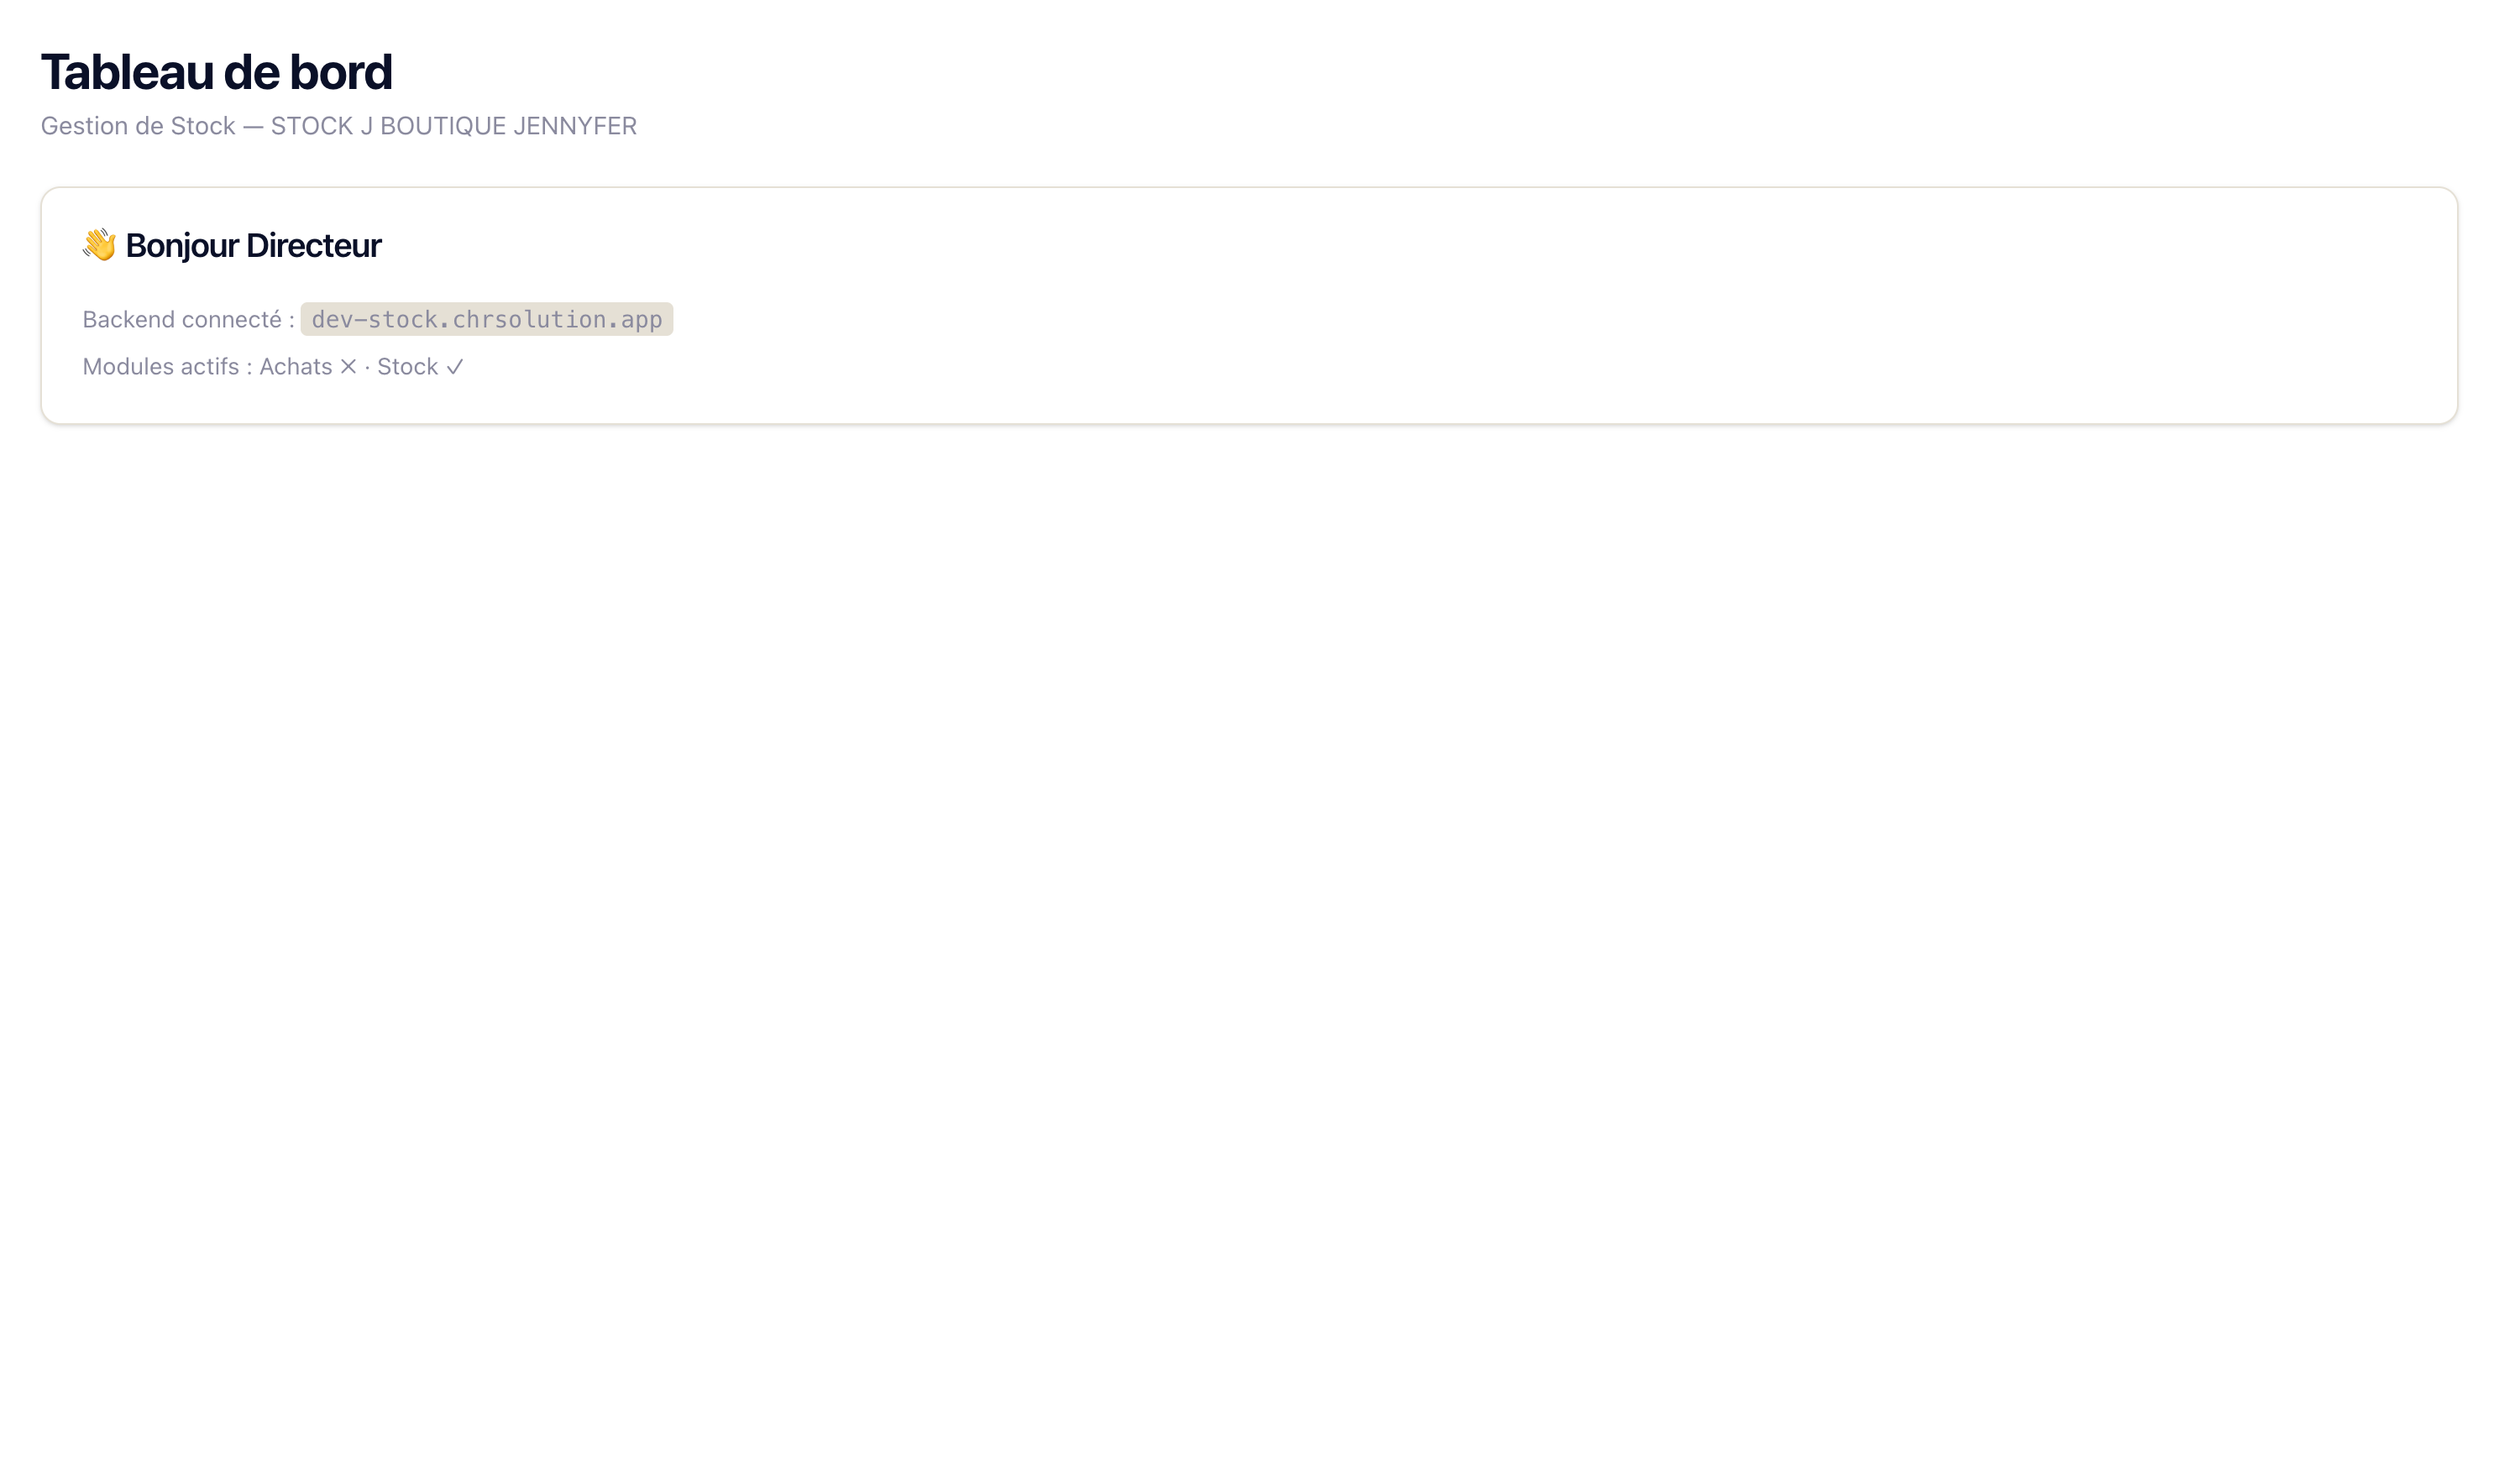
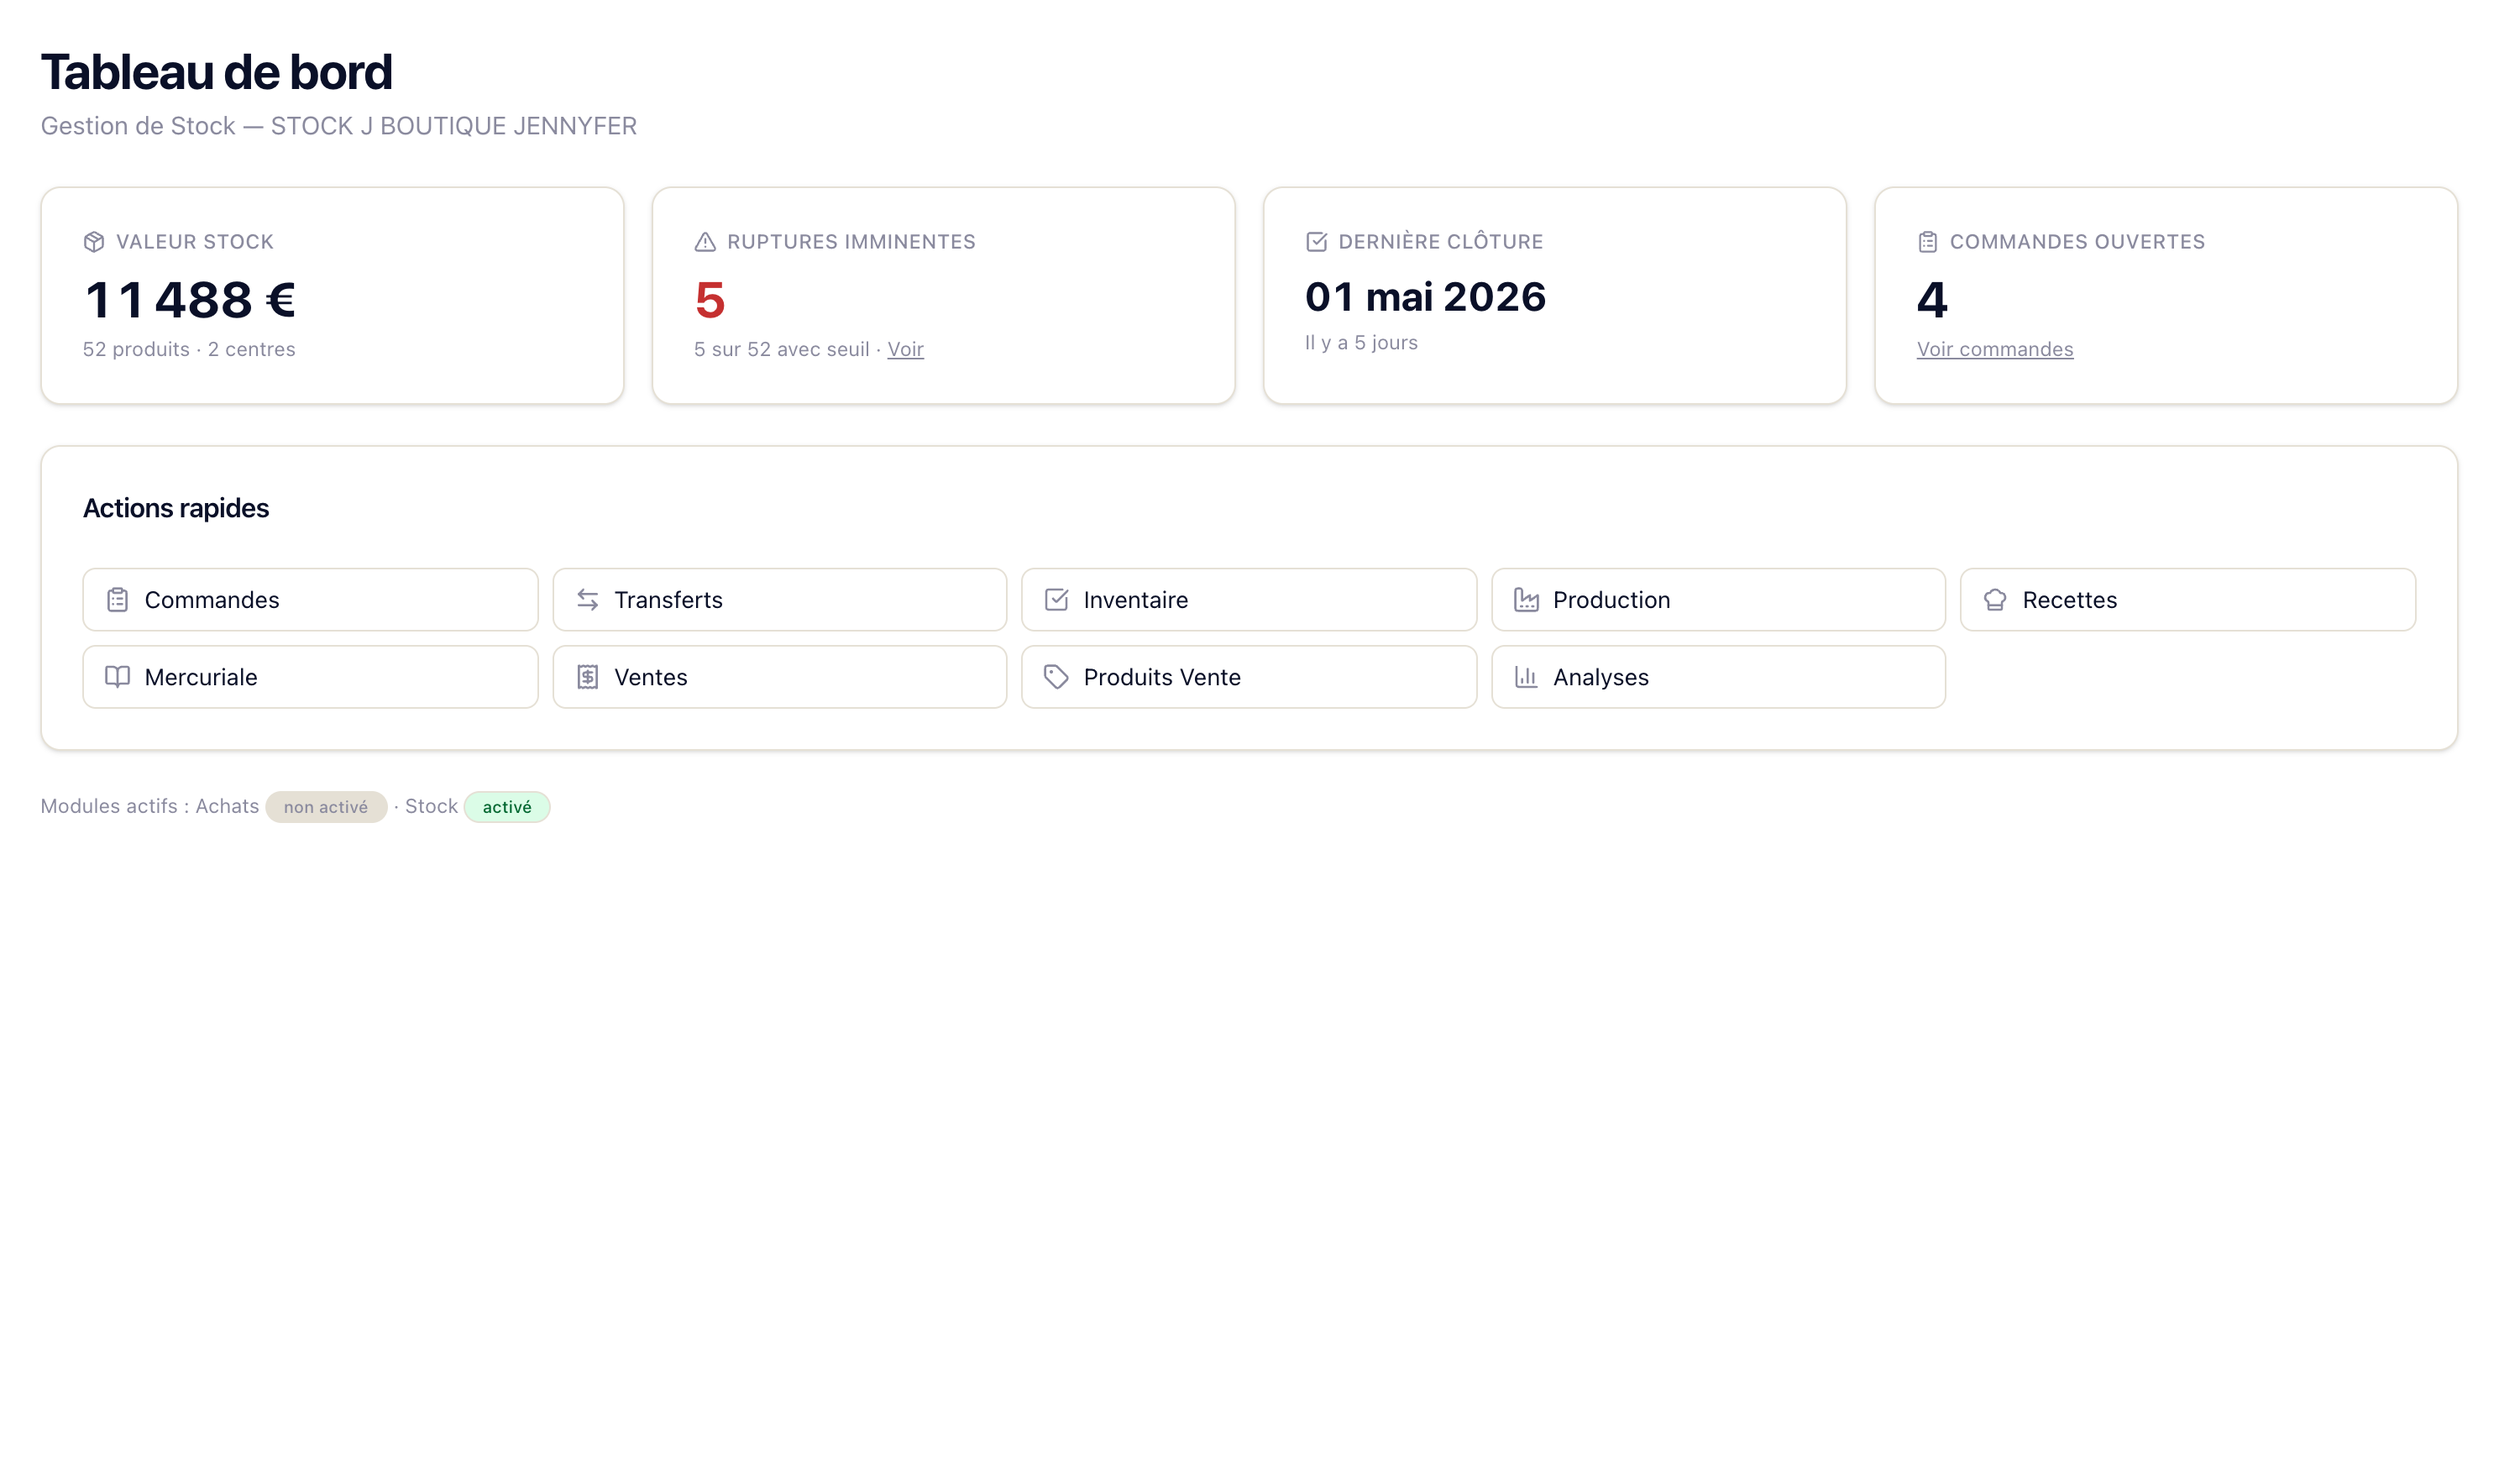
feat(stock+achats): feature-row Dashboard ajoutée + image V2 du dashboard live
stock-purchase-general-code a livré la V2 du dashboard avec seed enrichi :
KPIs réalistes (valeur stock 11 488 €, 5 ruptures sur 52 produits,
dernière clôture il y a 5 j, 4 commandes ouvertes).

- Écraser stock-dashboard.png (assets/img/stock/) avec la V2
- Dupliquer en achats-dashboard.png en attendant module Purchase activé
  côté tenant Jennyfer
- Rajouter feature-row "Tableau de bord" en TÊTE de gestion-stock.html,
  gestion-achats.html, en/stock.html, en/purchasing.html avec accroche
  "Pilotez votre stock/achats en un coup d'œil"

diff --git a/gestion-stock.html b/gestion-stock.html
@@ -59,6 +59,15 @@
 
     <div class="feature-row reveal">
       <div>
+        <span class="eyebrow">Tableau de bord</span>
+        <h3>Pilotez votre stock en un coup d'œil</h3>
+        <p>Valeur stock du jour, ruptures imminentes, dernière clôture inventaire, commandes en cours — les indicateurs essentiels affichés à l'arrivée le matin. Raccourcis directs vers les actions du jour : nouvelle saisie, nouveau transfert, nouvelle commande. Calcul automatique sur tous vos centres.</p>
+      </div>
+      <div class="feature-visual"><img src="/assets/img/stock/stock-dashboard.png" alt="Tableau de bord CHR Stock : valeur stock, ruptures, dernière clôture, commandes ouvertes" loading="lazy" style="width:100%;height:auto;border-radius:14px;box-shadow:0 24px 60px -20px rgba(10,16,40,.45);" /></div>
+    </div>
+
+    <div class="feature-row reveal">
+      <div>
         <span class="eyebrow">Inventaires</span>
         <h3>L'inventaire sur tablette, par zone</h3>
         <p>Comptez physiquement votre stock une fois par mois, l'application calcule l'écart automatiquement. Initialisez toutes les lignes en un clic. Saisie en ligne, validation au Tab — pensé pour aller vite sur tablette en cave. Valorisation totale calculée selon votre méthode de prix moyen.</p>

diff --git a/gestion-achats.html b/gestion-achats.html
@@ -59,6 +59,15 @@
 
     <div class="feature-row reveal">
       <div>
+        <span class="eyebrow">Tableau de bord</span>
+        <h3>Pilotez vos achats sans tableur</h3>
+        <p>Commandes en cours, encours fournisseurs, alertes retards, valorisation des stocks à réceptionner — tous les indicateurs sur une seule page. Raccourcis rapides : créer un BC, valider une livraison, saisir une facture. Calcul automatique sur tous vos centres et fournisseurs.</p>
+      </div>
+      <div class="feature-visual"><img src="/assets/img/achats/achats-dashboard.png" alt="Tableau de bord CHR Achats : commandes en cours, encours fournisseurs, raccourcis" loading="lazy" style="width:100%;height:auto;border-radius:14px;box-shadow:0 24px 60px -20px rgba(10,16,40,.45);" /></div>
+    </div>
+
+    <div class="feature-row reveal">
+      <div>
         <span class="eyebrow">Commandes</span>
         <h3>Toutes vos commandes fournisseur en un seul écran</h3>
         <p>Du brouillon à la facture, vue chronologique avec filtres par statut (en saisie, envoyée, livrée, facturée, annulée). Badge de couleur pour repérer les retards en un coup d'œil. Actions par ligne : modifier, réceptionner, archiver — sans ouvrir de fenêtre intermédiaire.</p>

diff --git a/en/stock.html b/en/stock.html
@@ -52,6 +52,15 @@
 
     <div class="feature-row reveal">
       <div>
+        <span class="eyebrow">Dashboard</span>
+        <h3>Steer your stock at a glance</h3>
+        <p>Today's stock value, imminent stock-outs, last inventory closure, open orders — the essential indicators displayed on arrival in the morning. Direct shortcuts to today's actions: new entry, new transfer, new order. Automatic computation across all your centres.</p>
+      </div>
+      <div class="feature-visual"><img src="/assets/img/stock/stock-dashboard.png" alt="CHR Stock dashboard: stock value, stock-outs, last closure, open orders" loading="lazy" style="width:100%;height:auto;border-radius:14px;box-shadow:0 24px 60px -20px rgba(10,16,40,.45);" /></div>
+    </div>
+
+    <div class="feature-row reveal">
+      <div>
         <span class="eyebrow">Inventories</span>
         <h3>Tablet inventory, by zone</h3>
         <p>Count physically once a month, the app computes variance automatically. Initialise all lines in one click. Inline entry, Tab to validate — built to move fast on a tablet in the cellar. Total valuation computed using your average-price method.</p>

diff --git a/en/purchasing.html b/en/purchasing.html
@@ -52,6 +52,15 @@
 
     <div class="feature-row reveal">
       <div>
+        <span class="eyebrow">Dashboard</span>
+        <h3>Steer your purchasing without spreadsheets</h3>
+        <p>Open orders, supplier balances, late-delivery alerts, pending receipts valuation — all the indicators on a single page. Quick shortcuts: create a PO, validate a delivery, log an invoice. Automatic computation across all your centres and suppliers.</p>
+      </div>
+      <div class="feature-visual"><img src="/assets/img/achats/achats-dashboard.png" alt="CHR Purchasing dashboard: open orders, supplier balances, shortcuts" loading="lazy" style="width:100%;height:auto;border-radius:14px;box-shadow:0 24px 60px -20px rgba(10,16,40,.45);" /></div>
+    </div>
+
+    <div class="feature-row reveal">
+      <div>
         <span class="eyebrow">Orders</span>
         <h3>All your supplier orders in one screen</h3>
         <p>From draft to invoice: chronological view with filters per status (drafting, sent, delivered, invoiced, cancelled). Colour badges to spot late ones at a glance. Per-row actions: edit, receive, archive — without an intermediate window.</p>
